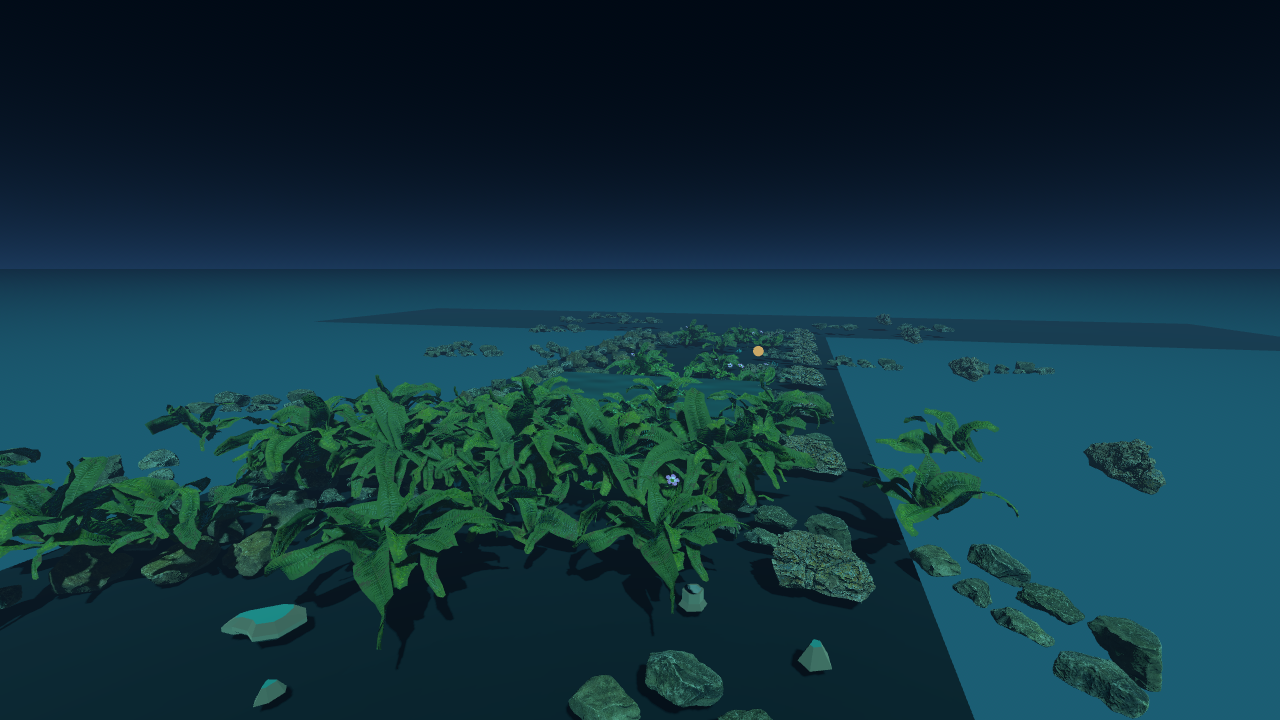
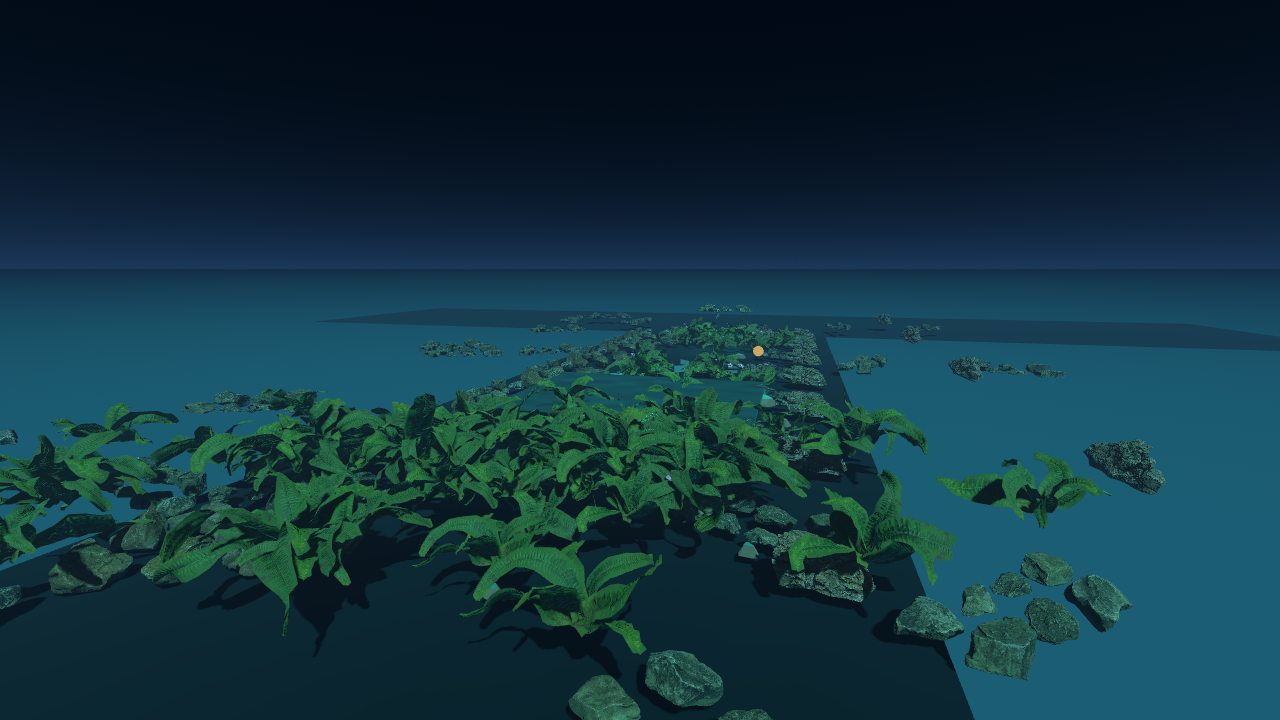
Add screenshots for beach intro, village inspects, and cave sequence
- Extend screenshot runner with beach, village_inspects, caves_pool, caves_water, caves_shrine views
- Fix zone_visuals parse errors and screenshot-mode lite asset loading
- Capture PNGs to steam/screenshots-capture/

diff --git a/tools/verify_asset_licenses.py b/tools/verify_asset_licenses.py
@@ -28,9 +28,14 @@ STEAM_MEDIA = {
     "steam/screenshots/04_palace.png",
     "steam/screenshots/05_endings.png",
     "steam/screenshots-capture/caves.png",
+    "steam/screenshots-capture/caves_pool.png",
+    "steam/screenshots-capture/caves_shrine.png",
+    "steam/screenshots-capture/caves_water.png",
+    "steam/screenshots-capture/beach.png",
     "steam/screenshots-capture/main_menu.png",
     "steam/screenshots-capture/palace.png",
     "steam/screenshots-capture/village.png",
+    "steam/screenshots-capture/village_inspects.png",
 }
 
 # Basename allowlist under game/assets (procedural MIT or documented third-party).